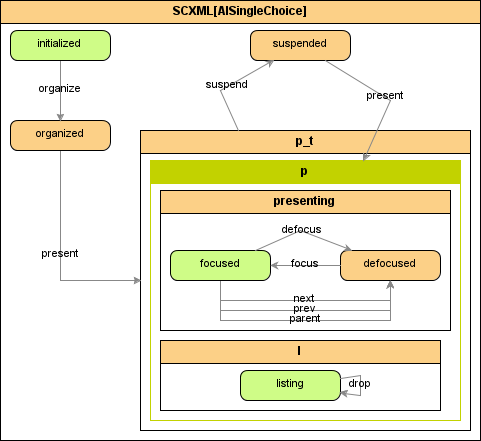
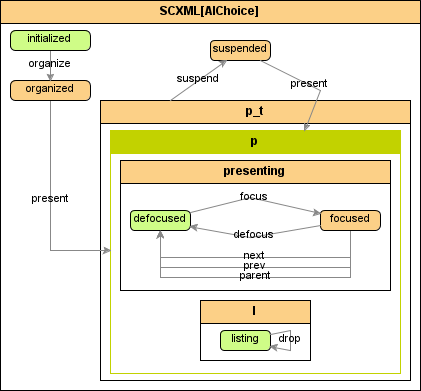
AIO, AIC and AIChoice all working

diff --git a/lib/MINT-core/model/aui/AIC.rb b/lib/MINT-core/model/aui/AIC.rb
@@ -8,36 +8,37 @@ module MINT
 
     def initialize_statemachine
       super
-
-      @statemachine = Statemachine.build do
-        superstate :AIO do
-          trans :initialized,:organize, :organized
-          trans :organized, :present, :presenting
-          trans :suspended,:present, :presenting, :present_children
-
-          state :suspended do
-            on_entry :sync_cio_to_hidden
-          end
-
-          superstate :presenting do
-            event :suspend, :suspended, :hide_children
-
-            state :defocused do
-              on_entry :sync_cio_to_displayed
-            end
-            state :focused do
-              on_entry :sync_cio_to_highlighted
-            end
-            trans :defocused,:focus,:focused
-            trans :focused,:defocus, :defocused
-            trans :focused, :next, :defocused, :focus_next,  Proc.new { exists_next}
-            trans :focused, :prev, :defocused, :focus_previous, Proc.new { exists_prev}
-            trans :focused, :parent, :defocused, :focus_parent
-            trans :focused, :child, :defocused, :focus_child
-
-          end
-        end
-      end
+      parser = StatemachineParser.new(self)
+      @statemachine = parser.build_from_scxml "lib/MINT-core/model/aui/aic.scxml"
+#@statemachine = Statemachine.build do
+#        superstate :AIO do
+#          trans :initialized,:organize, :organized
+#          trans :organized, :present, :presenting
+#          trans :suspended,:present, :presenting, :present_children
+#
+#          state :suspended do
+#            on_entry :sync_cio_to_hidden
+#          end
+#
+#          superstate :presenting do
+#            event :suspend, :suspended, :hide_children
+#
+#            state :defocused do
+#              on_entry :sync_cio_to_displayed
+#            end
+#            state :focused do
+#              on_entry :sync_cio_to_highlighted
+#            end
+#            trans :defocused,:focus,:focused
+#            trans :focused,:defocus, :defocused
+#            trans :focused, :next, :defocused, :focus_next,  Proc.new { exists_next}
+#            trans :focused, :prev, :defocused, :focus_previous, Proc.new { exists_prev}
+#            trans :focused, :parent, :defocused, :focus_parent
+#            trans :focused, :child, :defocused, :focus_child
+#
+#          end
+#        end
+#      end
     end
 
     def hide_children

diff --git a/lib/MINT-core/model/aui/AIChoice.rb b/lib/MINT-core/model/aui/AIChoice.rb
@@ -2,7 +2,10 @@ module MINT
   class AIChoice < AIC
     def initialize_statemachine
       if @statemachine.blank?
-        @statemachine = Statemachine.build do
+        parser = StatemachineParser.new(self)
+        @statemachine = parser.build_from_scxml "lib/MINT-core/model/aui/aichoice.scxml"
+=begin
+ @statemachine = Statemachine.build do
           trans :initialized,:organize, :organized
           trans :organized, :present, :p
           trans :suspended,:present, :p, :present_children
@@ -31,13 +34,14 @@ module MINT
               end
               statemachine :s2 do
                 superstate :l do
-
-                  trans :listing, :drop, :listing, :add_element
+                  trans :listing, :drop, :listing, :add_element, Proc.new{In(:focus)}
                 end
               end
             end
           end
         end
+=end
+      @statemachine.reset
       end
     end
     def add_element
@@ -45,6 +49,8 @@ module MINT
       self.childs << f
       self.childs.save
       f.process_event(:drop)
+      f.process_event(:focus)
+      self.process_event(:defocus)
       f.destroy
     end
   end

diff --git a/spec/aisinglechoice_spec.rb b/spec/aisinglechoice_spec.rb
@@ -68,7 +68,7 @@ describe 'SingleChoice' do
       @e1.process_event(:choose).should == [:focused, :chosen]
       @e2.process_event(:choose).should == [:defocused, :chosen]
 
-      # TODO: state actualization should be done without re-querying?
+      # TODO: state actualization should be done withnt :suspend, out re-querying?
       @e1 = MINT::AISingleChoiceElement.first(:name => "element_1")
       @e1.states.should == [:focused, :listed]
     end

diff --git a/lib/MINT-core/model/interactor.rb b/lib/MINT-core/model/interactor.rb
@@ -89,7 +89,7 @@ module MINT
       end
       begin
          old_states = @statemachine.states_id
-        @statemachine.process_event(event)
+         @statemachine.process_event(event)
          calc_new_states = @statemachine.states_id-old_states
          calc_new_states = @statemachine.states_id if calc_new_states.length==0
         attribute_set(:new_states, calc_new_states.join('|'))

diff --git a/lib/MINT-core/model/aui/AIO.rb b/lib/MINT-core/model/aui/AIO.rb
@@ -22,7 +22,7 @@ module MINT
 
     def initialize_statemachine
       if @statemachine.blank?
-        parser = StatemachineParser.new
+        parser = StatemachineParser.new(self)
         @statemachine = parser.build_from_scxml "lib/MINT-core/model/aui/aio.scxml"
 =begin        @statemachine = Statemachine.build do
 

diff --git a/spec/aio_spec.rb b/spec/aio_spec.rb
@@ -15,7 +15,6 @@ describe 'AUI' do
       @a.new_states.should == [:initialized]
     end
 
-
     it 'should transform to organizing state for present action' do
       @a.process_event(:organize).should ==[:organized]
       @a.states.should == [:organized]

diff --git a/lib/MINT-core/model/aui/AISingleChoice.rb b/lib/MINT-core/model/aui/AISingleChoice.rb
@@ -1,6 +1,6 @@
 module MINT
   class AISingleChoice < AIChoice
- 
+
   end
 
   class ARContainer < AISingleChoice
